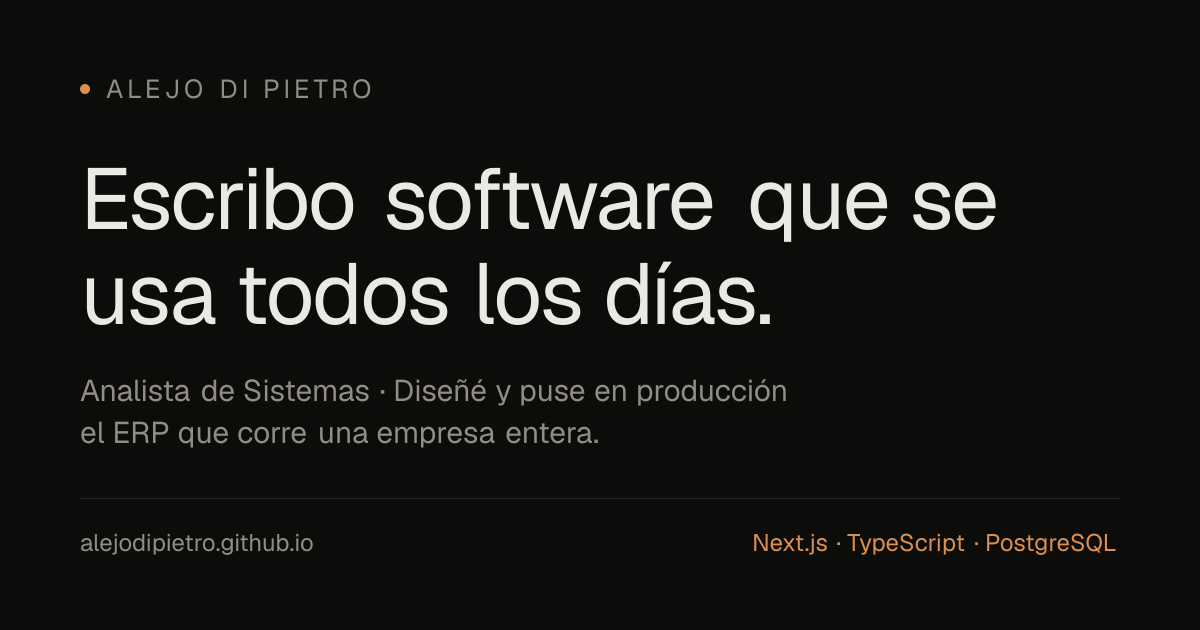
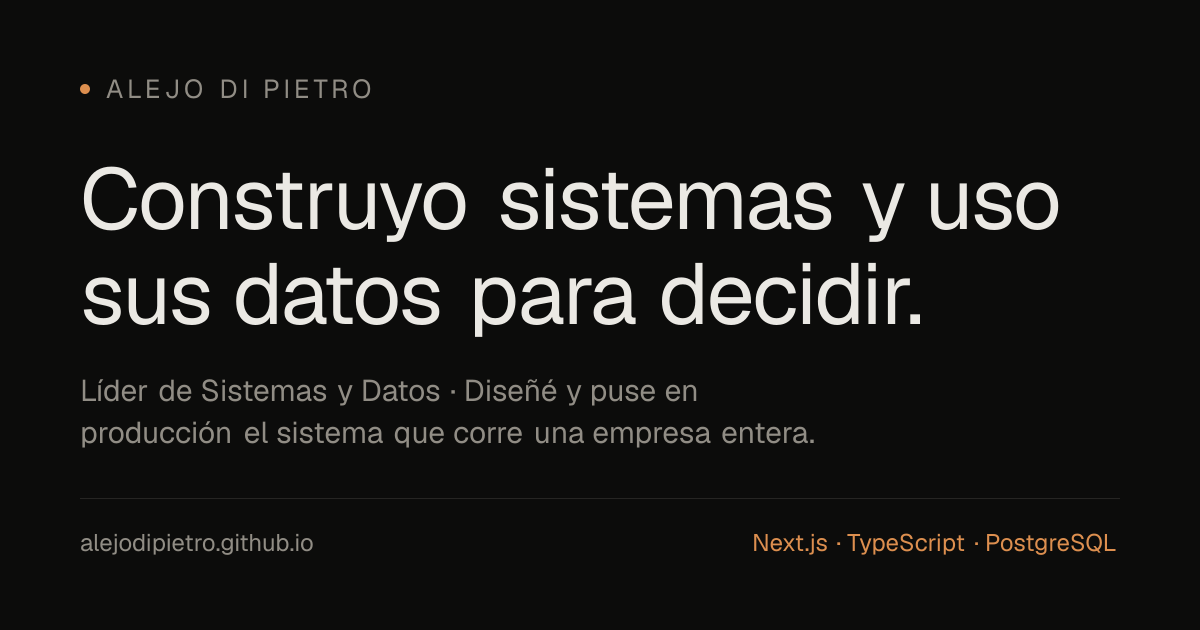
Reposiciona el sitio: de desarrollador a lider de sistemas y datos
El titulo, el hero, la experiencia y la imagen para compartir pasan a contar
el rol real: construir el sistema y trabajar con la direccion sobre sus datos.
Saca la edad, corrige que Aetheria no es lo unico que se puede abrir (el
cotizador tambien tiene demo, que faltaba en /en) y la baja al final de la
lista. Reemplaza la metrica de facturas duplicadas, que nunca se valido.

Changed region(s): [[0.0617, 0.2714, 0.8942, 0.3921], [0.0617, 0.4222, 0.7708, 0.5429], [0.0617, 0.6032, 0.6783, 0.7238]]

diff --git a/src/lib/content.ts b/src/lib/content.ts
@@ -5,7 +5,7 @@
 
 export const perfil = {
   nombre: "Alejo Di Pietro",
-  titulo: "Desarrollador Full-Stack",
+  titulo: "Líder de Sistemas y Datos",
   stackPrincipal: "Next.js · TypeScript",
   ubicacion: "Buenos Aires, Argentina",
   email: "alejodipietro123@gmail.com",
@@ -18,9 +18,9 @@ export const perfil = {
 
   // Lo primero que se lee. Tiene que sonar a persona, no a CV.
   saludo: "Alejo Di Pietro",
-  hero: "Escribo software que se usa todos los días.",
+  hero: "Construyo sistemas y uso sus datos para decidir.",
   heroDetalle:
-    "Tengo 21 años y soy Analista de Sistemas. Entré a una empresa a los 18 para atender clientes por WhatsApp, pasé por ventas y por tesorería, y terminé diseñando y poniendo en producción el sistema que hoy la corre entera: pedidos, stock, finanzas y facturación ante ARCA.",
+    "Soy Analista de Sistemas y lidero el área de sistemas y datos de Cambren SRL. Diseñé y puse en producción el sistema de gestión que hoy corre toda la empresa —ventas, stock, compras, finanzas y facturación ante ARCA— y trabajo junto a la dirección con la información que genera: estados de resultados, análisis de rentabilidad y detección de pérdidas.",
 } as const;
 
 /**
@@ -31,7 +31,7 @@ export const numeros = [
   { valor: 3, sufijo: " meses", etiqueta: "de cero a producción" },
   { valor: 10, prefijo: "~", sufijo: "", etiqueta: "personas lo usan todos los días" },
   { valor: 4, sufijo: "", etiqueta: "áreas trabajando sobre un mismo dato" },
-  { valor: 0, sufijo: "", etiqueta: "facturas cargadas dos veces desde entonces" },
+  { valor: 6, sufijo: "", etiqueta: "módulos en producción" },
 ] as const;
 
 export type Proyecto = {
@@ -112,21 +112,6 @@ export const proyectos: Proyecto[] = [
       "Pieza de presentación del Cotizador de cercos: a la izquierda el título y las cuatro cosas que hace; a la derecha una pantalla de la app con el cerco dibujado a escala, el formulario de tramos y el total con IVA de $4.183.744.",
   },
   {
-    slug: "aetheria",
-    nombre: "Aetheria Online — un RPG 3D en el navegador",
-    periodo: "2026",
-    resumen:
-      "Un sandbox de combate y progresión con cinco zonas, loot por rarezas, inventario, equipamiento y jefes, escrito con Three.js en un solo index.html sin build ni framework. Es lo único de esta lista que podés abrir y usar ahora mismo, sin pedirle permiso a nadie.",
-    stack: ["Three.js", "JavaScript", "WebGL"],
-    demo: "https://alejodipietro.github.io/aetheria/",
-    repo: "https://github.com/AlejoDiPietro/aetheria",
-    captura: "/capturas/aetheria.webp",
-    capturaChrome: false,
-    capturaRatio: "3 / 2",
-    capturaAlt:
-      "Pieza de presentación de Aetheria Online: el título y la lista de características a la izquierda, una captura grande del personaje en la Pradera de Sakura a la derecha, y abajo tres pantallas del juego — inventario, combate y la tienda del mercader.",
-  },
-  {
     slug: "web-publica",
     nombre: "Migración de una web pública a Next.js",
     periodo: "2026",
@@ -153,6 +138,23 @@ export const proyectos: Proyecto[] = [
     resumen:
       "Mi primer proyecto que usó gente de verdad. Modelé la conversación con diagramas de actividades UML antes de escribir una línea, y automatizó las consultas que respondíamos veinte veces por día.",
     stack: ["UML", "Automatización"],
+  },
+  {
+    // Al final a propósito: es un proyecto personal, y arriba van los que
+    // resuelven un problema de negocio.
+    slug: "aetheria",
+    nombre: "Aetheria Online — un RPG 3D en el navegador",
+    periodo: "2026",
+    resumen:
+      "Un proyecto personal: un sandbox de combate y progresión con cinco zonas, loot por rarezas, inventario, equipamiento y jefes, escrito con Three.js en un solo index.html sin build ni framework.",
+    stack: ["Three.js", "JavaScript", "WebGL"],
+    demo: "https://alejodipietro.github.io/aetheria/",
+    repo: "https://github.com/AlejoDiPietro/aetheria",
+    captura: "/capturas/aetheria.webp",
+    capturaChrome: false,
+    capturaRatio: "3 / 2",
+    capturaAlt:
+      "Pieza de presentación de Aetheria Online: el título y la lista de características a la izquierda, una captura grande del personaje en la Pradera de Sakura a la derecha, y abajo tres pantallas del juego — inventario, combate y la tienda del mercader.",
   },
   {
     slug: "este-sitio",
@@ -239,10 +241,10 @@ export const experiencia: Experiencia[] = [
     periodo: "2024 — Actualidad",
     puestos: [
       {
-        puesto: "Desarrollador Full-Stack",
+        puesto: "Líder de Sistemas y Datos",
         periodo: "Abril 2026 — Actualidad",
         descripcion:
-          "Diseñé y desarrollé end-to-end el ERP que corre la operación de la empresa, integré la facturación electrónica con ARCA y sumé un asistente interno con IA sobre los datos del sistema.",
+          "Relevé los procesos de todas las áreas y diseñé, desarrollé e implementé el ERP que corre la operación, con facturación electrónica ante ARCA y actualización automática de costos a partir de las facturas de proveedores. Trabajo junto a la dirección, el estudio contable y los asesores externos: elaboro los estados de resultados y los análisis de rentabilidad, y aporto los datos para detectar y corregir desvíos operativos.",
       },
       {
         puesto: "Analista de Finanzas y Tesorería",
@@ -318,7 +320,7 @@ export const formacion = [
 
 /** El bloque personal. Sin esto la pagina podria ser de cualquiera. */
 export const sobreMi = [
-  "Entré a Cambren a los 18 para atender clientes por WhatsApp. Después pasé por ventas, por finanzas y por tesorería, y en el medio me recibí de Analista de Sistemas. Cuando me tocó construir el sistema de la empresa ya conocía el negocio desde adentro: sabía qué parte de cada planilla era el proceso real y qué parte era un parche que alguien había inventado para sobrevivir.",
-  "Eso es lo que más me gusta del oficio: entender un problema desordenado y salir con algo que la gente usa todos los días sin pensar en que alguien lo escribió.",
+  "Empecé en Cambren en atención al cliente y pasé por e-commerce, finanzas y tesorería antes de dedicarme a sistemas; en el medio me recibí de Analista de Sistemas. Cuando me tocó construir el sistema de la empresa ya conocía el negocio desde adentro: sabía qué parte de cada planilla era el proceso real y qué parte era un parche que alguien había inventado para sobrevivir.",
+  "Hoy mi trabajo está en el cruce entre la tecnología y la gestión: construyo las herramientas y después las uso, con la dirección, para decidir. Lo que más valoro de ese lugar es poder seguir un dato desde que se carga hasta la decisión que se toma con él.",
   "Sigo cursando Ingeniería en Informática en la USAL. Fuera de la pantalla voy al gimnasio, juego al fútbol y al pádel con amigos, y soy bastante fanático del cine de terror.",
 ];

diff --git a/src/app/en/page.tsx b/src/app/en/page.tsx
@@ -8,18 +8,22 @@ import { perfil } from "@/lib/content";
 export const metadata: Metadata = {
   // `absolute` evita que el template del layout le pegue el nombre de nuevo
   // y quede "Alejo Di Pietro — Full-Stack Developer — Alejo Di Pietro".
-  title: { absolute: "Alejo Di Pietro — Full-Stack Developer" },
+  title: { absolute: "Alejo Di Pietro — Systems & Data Lead" },
   description:
-    "21-year-old Systems Analyst from Buenos Aires. I designed and shipped the ERP that runs an entire company: orders, inventory, finance and electronic invoicing with the Argentine tax authority.",
+    "Systems Analyst from Buenos Aires. I designed and shipped the management system that runs an entire company, and work with its leadership on the data it produces: results, profitability and losses.",
   openGraph: { locale: "en_US" },
   alternates: { canonical: "/en", languages: { "es-AR": "/", "en-US": "/en" } },
 };
+
+/** Se lee dos veces (mobile junto a la foto, escritorio en la columna derecha). */
+const INTRO =
+  "I'm a Systems Analyst and I lead systems and data at Cambren SRL. I designed and shipped the management system that now runs the whole company — sales, inventory, purchasing, finance and electronic invoicing with the Argentine tax authority — and I work alongside its leadership on the information it produces: income statements, profitability analysis and spotting where money is being lost.";
 
 const numbers = [
   { valor: "3 months", etiqueta: "from nothing to production" },
   { valor: "~10", etiqueta: "people use it every day" },
   { valor: "4", etiqueta: "departments on one shared model" },
-  { valor: "0", etiqueta: "invoices keyed in twice since then" },
+  { valor: "6", etiqueta: "modules in production" },
 ];
 
 /**
@@ -57,16 +61,8 @@ const work: Trabajo[] = [
       "Metres of each side go in; a bill of materials, labour and the VAT-inclusive total come out, with the fence drawn to scale. The calculation is a pure function: it runs in the browser for the live number and again on the server when saving, discarding whatever totals the client sends. Prices are edited from the app and passed into the calculation as an argument, so it stays pure — and a saved quote is never recalculated, it freezes that day's prices the way an invoice does.",
     stack: "Next.js · TypeScript · tRPC · Prisma · Vitest",
     caso: "/proyectos/cotizador",
+    demo: "https://cotizador-cercos.vercel.app",
     repo: "https://github.com/AlejoDiPietro/cotizador-cercos",
-  },
-  {
-    nombre: "Aetheria Online — a 3D RPG in the browser",
-    periodo: "2026",
-    resumen:
-      "A combat and progression sandbox with five zones, rarity-based loot, inventory, gear and bosses, written with Three.js in a single index.html — no build step, no framework. It's the only thing on this list you can open and play right now.",
-    stack: "Three.js · JavaScript · WebGL",
-    demo: "https://alejodipietro.github.io/aetheria/",
-    repo: "https://github.com/AlejoDiPietro/aetheria",
   },
   {
     nombre: "Migrating a public site to Next.js",
@@ -85,6 +81,15 @@ const work: Trabajo[] = [
     stack: "Java · Hibernate · JAX-WS · Jersey · MySQL",
     repo: "https://github.com/AlejoDiPietro/gestion-proyectos",
   },
+  {
+    nombre: "Aetheria Online — a 3D RPG in the browser",
+    periodo: "2026",
+    resumen:
+      "A personal project: a combat and progression sandbox with five zones, rarity-based loot, inventory, gear and bosses, written with Three.js in a single index.html — no build step, no framework.",
+    stack: "Three.js · JavaScript · WebGL",
+    demo: "https://alejodipietro.github.io/aetheria/",
+    repo: "https://github.com/AlejoDiPietro/aetheria",
+  },
 ];
 
 /** Agrupado por empresa: la progresión es el argumento, no cada puesto suelto. */
@@ -93,10 +98,10 @@ const experience = {
   periodo: "2024 — Present",
   puestos: [
     {
-      puesto: "Full-Stack Developer",
+      puesto: "Systems & Data Lead",
       periodo: "Apr 2026 — Present",
       descripcion:
-        "Designed and built end-to-end the ERP that runs the company's operations, integrated electronic invoicing with the tax authority, and added an internal AI assistant over the system's data.",
+        "Mapped the processes of every department and designed, built and shipped the ERP that runs the operation, with electronic invoicing and costs updated automatically from supplier invoices. I work with the owners, the accounting firm and external advisors: I prepare the income statements and profitability analysis, and provide the data to detect and fix operational losses.",
     },
     {
       puesto: "Finance & Treasury Analyst",
@@ -147,15 +152,11 @@ export default function En() {
             Buenos Aires, Argentina
           </p>
           <h1 className="display mt-5 text-[2.75rem] sm:text-5xl">
-            I write software people use every day.
+            I build systems and use their data to make decisions.
           </h1>
 
           <p className="mt-6 max-w-xl leading-relaxed text-muted lg:hidden">
-            I&apos;m 21 and a Systems Analyst. I joined a company at 18
-            answering customers on WhatsApp, moved through sales and treasury,
-            and ended up designing and shipping the system that now runs the
-            whole operation: orders, inventory, finance and electronic invoicing
-            with the Argentine tax authority.
+            {INTRO}
           </p>
 
           <div className="mt-8 flex flex-wrap items-center gap-x-5 gap-y-3 text-sm">
@@ -194,11 +195,7 @@ export default function En() {
 
       <div className="min-w-0 flex-1 lg:py-16">
         <p className="mb-10 hidden max-w-2xl text-lg leading-relaxed text-muted lg:block">
-          I&apos;m 21 and a Systems Analyst. I joined a company at 18 answering
-          customers on WhatsApp, moved through sales and treasury, and ended up
-          designing and shipping the system that now runs the whole operation:
-          orders, inventory, finance and electronic invoicing with the Argentine
-          tax authority.
+          {INTRO}
         </p>
 
         <ul className="grid grid-cols-2 gap-x-8 gap-y-7 border-y border-line py-7 sm:grid-cols-4">

diff --git a/scripts/opengraph-image.generador.tsx b/scripts/opengraph-image.generador.tsx
@@ -29,7 +29,7 @@ import { ImageResponse } from "next/og";
  * fuente por defecto alcanza.
  */
 
-export const alt = "Alejo Di Pietro — Desarrollador Full-Stack";
+export const alt = "Alejo Di Pietro — Líder de Sistemas y Datos";
 export const size = { width: 1200, height: 630 };
 export const contentType = "image/png";
 
@@ -93,8 +93,8 @@ export default function Image() {
               letterSpacing: -2,
             }}
           >
-            <div>Escribo software que se</div>
-            <div>usa todos los días.</div>
+            <div>Construyo sistemas y uso</div>
+            <div>sus datos para decidir.</div>
           </div>
           <div
             style={{
@@ -105,8 +105,8 @@ export default function Image() {
               lineHeight: 1.4,
             }}
           >
-            <div>Analista de Sistemas · Diseñé y puse en producción</div>
-            <div>el ERP que corre una empresa entera.</div>
+            <div>Líder de Sistemas y Datos · Diseñé y puse en</div>
+            <div>producción el sistema que corre una empresa entera.</div>
           </div>
         </div>
 

diff --git a/src/app/layout.tsx b/src/app/layout.tsx
@@ -31,7 +31,7 @@ const display = Instrument_Serif({
 const SITIO = "https://alejodipietro.github.io";
 
 const DESCRIPCION =
-  "Analista de Sistemas de 21 años. Diseñé y puse en producción el ERP que corre una empresa entera: pedidos, stock, finanzas y facturación electrónica ante ARCA.";
+  "Analista de Sistemas. Diseñé y puse en producción el sistema de gestión que corre una empresa entera, y trabajo con la dirección sobre los datos que genera: resultados, rentabilidad y pérdidas.";
 
 export const metadata: Metadata = {
   metadataBase: new URL(SITIO),
@@ -43,6 +43,8 @@ export const metadata: Metadata = {
   authors: [{ name: perfil.nombre, url: SITIO }],
   creator: perfil.nombre,
   keywords: [
+    "sistemas de gestión",
+    "análisis de datos",
     "desarrollador full-stack",
     "Next.js",
     "TypeScript",
